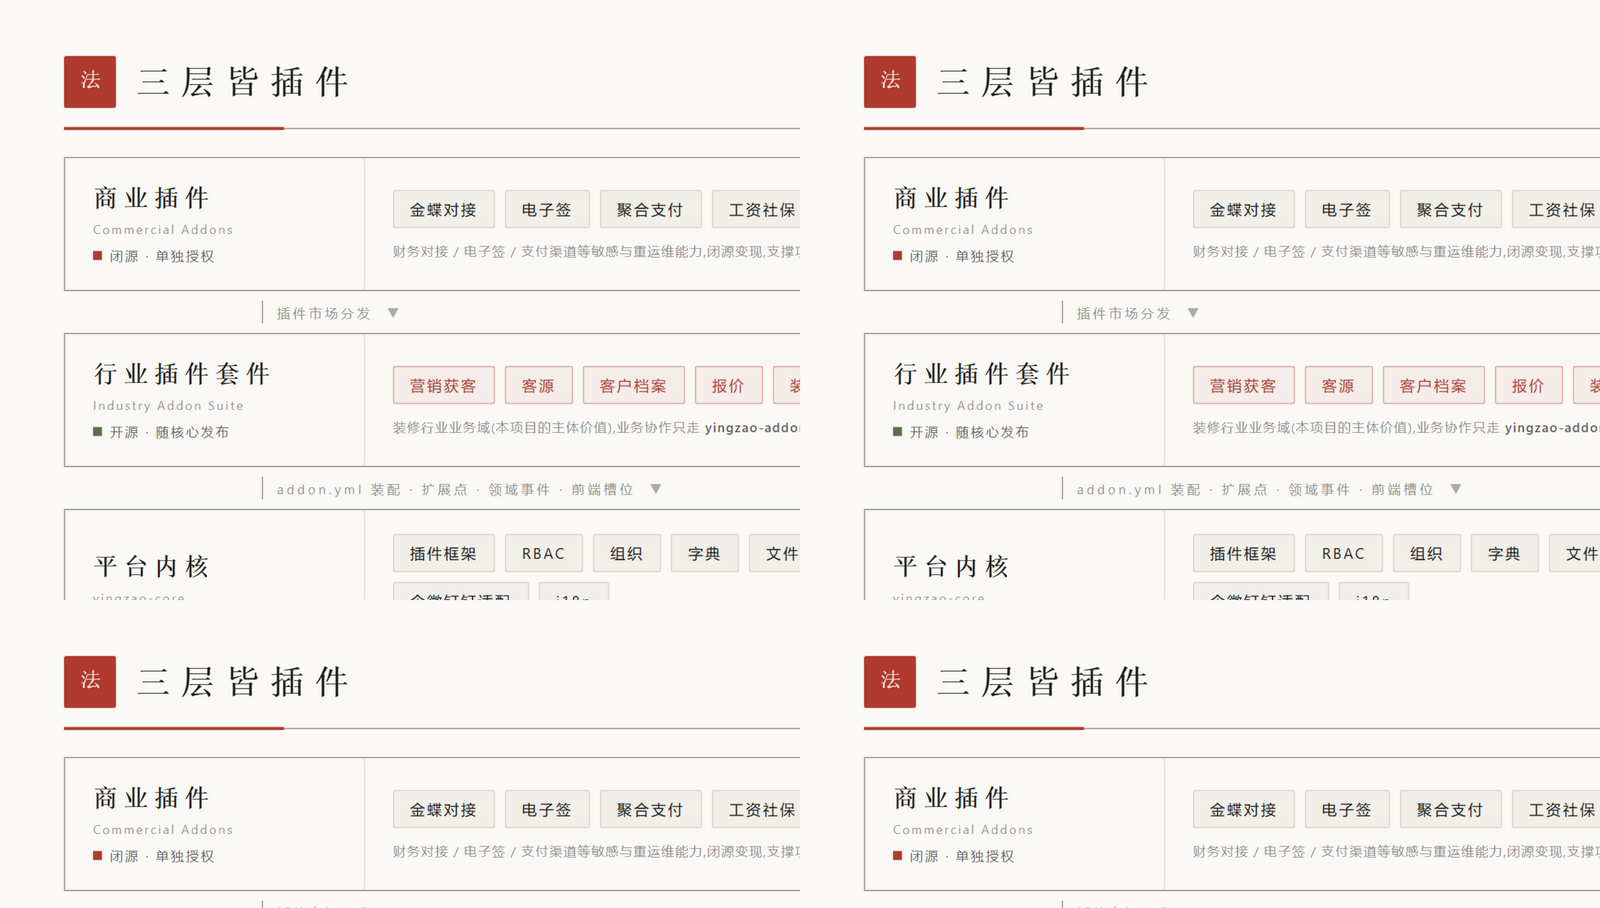
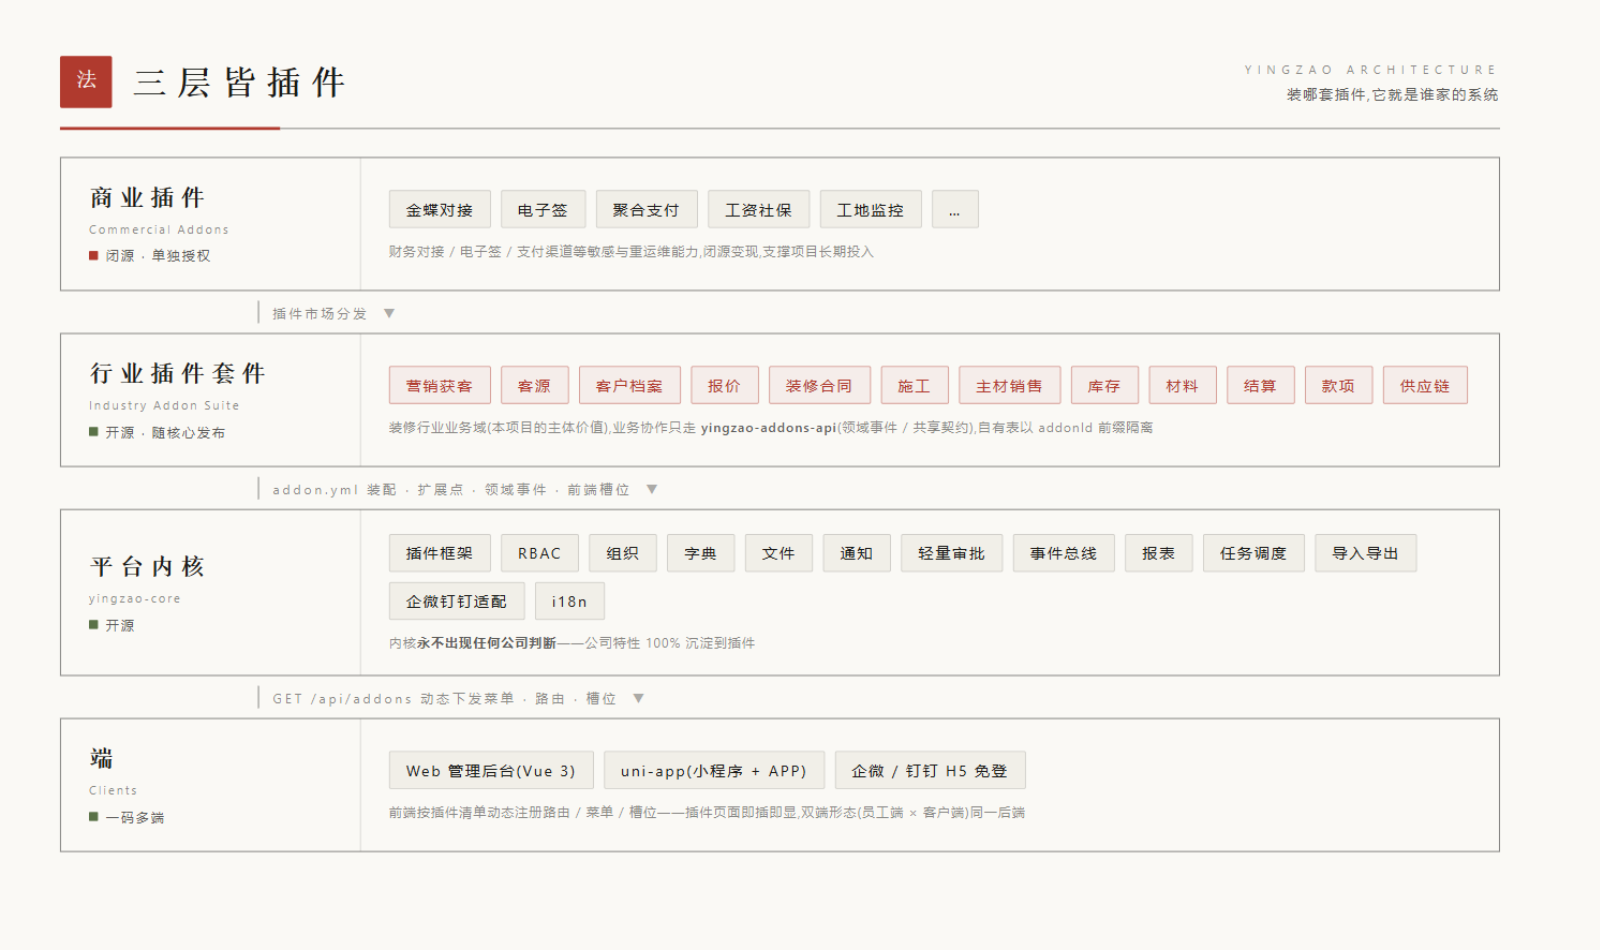
fix(docs): 架构图截图返工——clip截图管线产出2×2四副本+右缘裁切(用户实证图重复四遍/内容缺失)。规避姿势=视口精确匹配内容尺寸(setViewportSize 1600×950)+整视口截图不用clip;顺带architecture.html body固定宽1600被滚动条挤压致右缘裁切改1560留余量;重截产物单幅完整四层齐全;教训沉淀AGENTS.md:截图后必须Read核验产物不能只信保存成功

diff --git a/docs/design/architecture.html b/docs/design/architecture.html
@@ -21,8 +21,8 @@
     background: var(--paper);
     color: var(--ink);
     font-family: -apple-system, 'Segoe UI', 'Microsoft YaHei', 'PingFang SC', sans-serif;
-    padding: 56px 64px;
-    width: 1600px;
+    padding: 56px 60px;
+    width: 1560px;
   }
   .display { font-family: 'Songti SC', 'SimSun', 'Noto Serif SC', serif; }
   .eyebrow { font-size: 12px; letter-spacing: 6px; color: var(--ink-50); text-transform: uppercase; }

diff --git a/AGENTS.md b/AGENTS.md
@@ -100,6 +100,7 @@
 - ✅ **addon-sales V1 写码交付(第 24 次,写码模式第八个 addon:主材销售域,冒烟 673→864 步全绿终态见第 25 次首验;提交 3ad3e0d)**:①addons-api 新增两契约 `SalesOrderCreatedEvent`/`SalesOrderStatusChangedEvent`(action 键 fullRefund/countermand/finish/terminate)与 **`SalesApi` 只读契约**(collectedRatio 装修单名下销售款收款比例‰,消费方=施工闸)+ **PaymentApi 扩展 `submitRefund`**(实现在 addon-payment,整单退款+270012 幂等闸)+ **GoodsApi 扩展**(GoodsSummary 增 brandId/brandName 结算分组快照+listPackageItems 套餐成员只读,空列表=降级信号);②V1101 十表(counter/order 主单**四轴状态机**(主单轴沿老编号 0/2/3/4/5 缺1 保留+结算轴+款项轴+确认位)/item(package_id 套餐父子+五计数,xgnum 基线=num)/settlement(三段式 1单N品牌行,uk(org,sale,brand,type,rid) 兜底幂等)/refunds 族(审批驱动 3→0→1→2)/delivery 族(四级每级操作人+时间 8 列)/track/verify_code);③服务端算价拒前端金额(disPrice=selling×discount/1000→total=disPrice×num/1000 HALF_UP 长整);开单=DecorationApi 校验合同线非废单终止+套餐展开(子项不计总额老口径,空配置降级普通商品)+单号 XS+yyMMdd+4 位流水(uk 撞号重试不裸炸);改单全量替换守卫款项未付,已录未付自动 cancel+create 同步款项单;客户确认**三重校验服务端强制**(phone+code 同传,修老单传其一即绕过;验证码落表 10 分钟+通知中心转告,短信 V2);完结守卫全款确认+无未完配送;废单守卫四轴全初始放宽款项未付+联动 cancelBill;④**付款三事件回写**(collect→轴1/confirm→轴2+按品牌分组生成预结算行 insert ignore uk 幂等+结算轴 0→1/refunded→退货单已退款)+**库存四事件回写**(XG 扣 xgnum 原子守卫不足=超卖 300008 死信可见/删行回加/PU 加 punum/采购释放扣 punum 修老永不释放与 inventory 直改本域表;计数回写依赖总线 at-least-once 消费确认,exactly-once 待总线幂等表 V2);⑤结算三段式 vpost/post 条件 UPDATE+**vbalance/pbalance 双值人工修正服务端强校验非零且与金额同向**(修老拦截纯前端)+主单结算轴=行最小态重算+**驳回整单原子**(修老只删当前行兄弟残留);让利公式老三套量纲不自洽不迁 V1 balance=total;⑥退货=发起(300025 防重+**发起即原子预扣明细 num** 驳回回加)+内核轻量审批(AFTER_COMMIT+REQUIRES_NEW 军规8 SalesRefundApprovalListener:通过→主单轴 0/5→2/3,驳回→置无效+回加)+客户确认(三重+幂等)→**退货结算负值行**(守卫主单已预结 300019 显式报错修老静默;rid 幂等 300018)+**全退且金额一致→自动 submitRefund**(部分退/不符 300026 落人工);⑦配送=批次生成(守卫初始/完结+款项已付)+四级推进条件 UPDATE+留痕+**越级 300022 显式报错修老静默 continue**+完结回写 trnum;品牌跳级与分成克隆(PRD 默认砍)不迁;⑧**construction 销售款闸启用**(stacheck/fincheck 经 SalesApi,colletionRatio 聚合,免检位语义与装修款闸一致,新码 240025 双语);⑨错误码 300001-300031 同码同消息+i18n 中英双语;addon.yml 0.1.0(码段 300000/三菜单:销售单+结算工作台+配送履约/十组 dicts);⑩Web 三页(SalesOrders 列表四轴徽章+开单+详情抽屉全流转+SalesSettlements 结算工作台+Deliveries 配送看板),api/index.js 二十二函数,菜单动态注册零硬编码;⑪验证:npm build 全绿+dev 库 V1101 十表迁移成功(MySQL 5.6 日志实证)+冒烟最好一轮 **732/735**(3 fail=坏载荷死信环境性×1+**结算占位符错位 bug×2 已修复落码**:insert ignore 12 参对 11 位改 10?10 参)+**库中全链数据实证**(预结两品牌分组/双值修正/厂结/主单轴 3/整单驳回/退货审批/负值行/全退自动退款→PaymentRefundedEvent→退货单已退款);途中冒烟抓出并修复五处:①RefundApprovalListener 与 payment 同名 bean 冲突→更名 SalesRefundApprovalListener ②create() 把计数器 seq 当主单 id→改 insert 后 last_insert_id() ③撞号裸炸 110000→uk 撞号重试 3 次 ④syncBill 未录态误建款项单→updateItems 仅已录态重建/generateBill 无条件确保 ⑤占位符错位(见上);🔴下轮首验已由第 25 次兑现(见下条);自主决策(款项轴 V1 单全款线协议键 sales_full 定金线 V2/免付款通道不迁/让利公式不迁 balance=total/全局唯一流水修老公司级日流水/主单轴沿老编号/结算 4 完结旁路态不迁/验证码经通知转告短信 V2/计数回写幂等妥协声明/部分退货退款落人工/品牌跳级与分成克隆不迁)见报告 §五;
 - ✅ **addon-sales V1 首验全绿收官(第 25 次,第 24 次"下轮首验"兑现)**:①mvn clean package 复编译全绿+npm build 全绿+起服务补齐 smoke README 快退避五环境变量(BACKOFFSECONDS=1/BACKOFFCAP=5/MAXRETRIES=2/POLLINTERVAL=2000/POLLINITIALDELAY=3000);②**冒烟 864/864 全绿一次通过**(673→864;第 24 次 732/735 系 sales 段中途失败提前 return finish() 的截断计数,本夜完整跑通,死信链首次转绿);③增补修复三处(代码已随 3ad3e0d 入库):**退款落人工不阻塞客户确认**(submitRefundForFull 原对金额不符抛 300026 会回滚部分退货的确认事务,违 PRD"落人工"口径→改 refundManual 轨迹留痕,300026 码位保留)/**部分退货不置主单轴**(onApprovalFinished 原一律置 2/3 打死完结,改 drained 判定=主项 SUM(num)=0 才置轴,回归老系统"退货不改主单轴"正统语义 rules/sales.md §5,冒烟互斥断言同步修正)/**冒烟健壮性**(死信固定 sleep 25s 改轮询至多 75s,修默认 60s 退避基数下的必假死+对账 SQL pymysql 参数化后字面 % 转义 %%);④第 24 次 §三"宿主机进程异常"根因实证=**平行无人值守会话遗留后台任务树互杀**(模式:轮询 8080→taskkill 当前持有者→自起 jar→跑冒烟,排队任务陆续触发;PowerShell 哨兵按会话 id 匹配命令行两轮清杀 20+ 排队 bash 后环境清净,冒烟一次全绿);**运行纪律两条**:夜间任务起服务前必查 8080 占用与遗留 java/后台任务(本机可能存在平行会话)/冒烟失败先查服务存活与事件表状态,区分产品缺陷·环境互扰·时序脆弱三类再动手;详见 docs/reports/2026-10-13-第25次运行总结.md;
 - ✅ **addon-balance V1 写码交付(第 26 次,写码模式第九个 addon:结算汇聚域,冒烟 864→1001 全绿一次通过)**:①addons-api 四契约 `SettlementItemReadyEvent`(上游携金额快照,退货行负值生成侧完成)/`SettlementItemWithdrawnEvent`(上游撤回,未锁定桶摘行重算,锁定后死信)/`SettlementItemReleasedEvent`(balance→上游解绑退回,上游自回置对账状态,废直写三字段)/`SettlementSettledEvent`;②addon-sales 回补首个上游接入:结算行 post(结算)发布 Ready(快照=行终值,vpost 不发金额未定),替代老 SALES_AUTO_BALANCE 跨模块服务直调;③V1301 八表(统一结算单+快照行 **uk(source 三元组) 全局只挂一单修老外销防重缺失**/account uk(org,belonger,type) 净头寸不变式 surplus=refer−real/account_detail append-only/池/扣款单/子流水仅留痕修老双计/轨迹全动作覆盖)MySQL 5.6 兼容;④吸附聚桶键=org+settlement_type(sourceAddon:sourceType 复合协议键)+brand+supplier+grade,**select for update 串行化建桶修老并发双桶**;同键同金额重放幂等/同键异金额=上游修正(仅初始态);⑤四态机 0→1→2(可选审)→3→4,终态写拒全断言;⑥账户双腿收编 f384101d3 终态:台账腿原子消耗结算单余量+出纳现金腿原子扣减+**归属账户懒开户同步(insert ignore 兜并发,允许透支=预付)**+守卫族(类型/归属一致/停用/金额恒正)+补出纳入金 cashIn(老收款单语义);⑦扣款池三守卫闭环(池原子 SQL/unbind·deduct 状态守卫/金额恒正)+bind-unbind 精确逆操作对称+绑定时机统一为结算后+返款仅字典预留;⑧完结唯一定义=显式端点(已结算+surplus 清零+已付款)单向无逆向+付款标批量全或无;⑨错误码 320001-320025 双语+addon.yml 0.1.0(三菜单+八组 dicts 含修老字典缺 0 键);⑩Web 三页 Settlements(四态列表+详情抽屉明细快照/双腿操作/流水 timeline)+Accounts(建户/停启/入金/流水)+Cutpays(池+扣款单闭环),api/index.js 三十一函数;⑪验证:mvn+npm 双绿+V1301 迁移成功+冒烟 **864→1001/1001 全绿一次通过**(balance 段 137 步含 sales 真链端到端 post 事件吸附/双死信/不变式 pymysql 直查);⑫途中冒烟抓出并修复:**page 分页查询 List 未 toArray 八处**(queryForList(sql,List) 把 List 当 varargs 单元素绑定→param2 missing 列表端点全 500——balance 四处当场修+**addon-sales 四处潜伏**(orders/refunds/deliveries/settlements 列表,第 24 次冒烟只打 detail 未覆盖,Web 页一开即 500))+冒烟自身三处(漏财务确认步骤/固定 supplier 复跑污染→归属人时间戳化可重复执行/URL %3A 撞 % 格式化);自主决策(绑定时机统一结算后/折扣仅初始态/pending 不迁/返款预留/出纳入金补齐/完结显式端点/供应商身份字符串 grade 上游携带/聚桶含 sourceType/sales vpost 不发/修正语义/停用池闸/吸附零 REST 旁路)见报告 §三;
+- 🔴**第 32 次返工(架构图截图修复)**:IAB 浏览器 screenshot({clip}) 在该管线上输出异常(clip 1600×908 实际产出 2×2 平铺四副本+右缘裁切),用户实证"图重复四遍/内容缺失";**规避姿势=视口精确匹配内容尺寸(setViewportSize 1600×950)+整视口截图,不用 clip**;顺带 HTML body 固定宽 1600 被滚动条挤压致右缘裁切,改 1560 留余量;截图后必须 Read 核验产物,不能只信"保存成功";
 - ✅ **README 架构图图片化(第 32 次)**:「架构:三层皆插件」ASCII 图改图片展示(docs/screenshots/architecture.png,1600×908)——图源 docs/design/architecture.html 入仓可复改(方向三视觉:朱印方章+宋体标题+四层版框卡片+模块 chips+层间连接标注:插件市场分发/addon.yml 装配·扩展点·领域事件·前端槽位//api/addons 动态下发);文字版折叠 details 保留(无图环境/可搜索);静态服务+浏览器渲染截图管线;
 - ✅ **菜单业务链排序+全局去白统一纸色(第 31 次,用户三轮反馈:侧栏白色/菜单顺序/元素白底)**:①Layout.vue `MENU_ORDER` 固定业务链序=系统管理(角色权限,admin)→流程协作(审批中心)→基础数据→营销获客(漏斗顶端)→客户档案→客源→报价→装修单→施工→销售→库存→款项→结算;未登记插件自动追加尾部前向兼容,非 admin 滤系统组;②侧栏 `#FFFFFF`→`var(--yz-paper)` 融入纸底仅右缘细墨线;③yingzao.css 全局去白:`--el-fill-color-blank/--el-bg-color/--el-bg-color-overlay`→#FAF9F5,输入框/下拉/默认按钮/弹层/抽屉/分页全部纸色化,grep 零 #fff 字面量;④app 端 .card/.btn-mini 同口径纸色靠墨线成形;⑤screenshots/web 十张重截;web build+app build:h5 全绿;自主决策(获客排客户前/报价施工并入订单段/组织架构预留顺序位)见报告 §三;
 - ✅ **管理后台倒 L 布局 + 业务页脱离布局根因修复(第 30 次,用户反馈"进入具体页面无法访问其他页面")**:①🔴根因=registerAddonRoutes 用 addRoute('/',…) 按父名挂载而 '/' 路由无 name,vue-router 解析不到父路由把业务页注册成顶层路由——顶部导航从未在业务页出现(功能 bug 非视觉偏好);修复='/' 显式 name:'layout'+addRoute('layout',…) 挂为布局子路由,导航全页常驻;②Layout.vue 重写为**倒 L**(用户拍板):左侧 220px 分组菜单(brand 朱印方章+宋体移入侧栏/组名=插件名淡墨小字/激活项左缘朱印条+纸深底/审批中心置顶+角色权限归系统管理组仅 admin)+顶栏(宋体页题+通知铃+用户+退出);菜单 24 项竖排分组,横排溢出一并消解;③docs/screenshots/web 十一张全部重截(倒 L 版);web npm build 全绿;
@@ -108,7 +109,7 @@
 - ✅ **addon-market V1 写码交付(第 27 次,写码模式第十个 addon:营销获客域,行业插件套件 V1 收官,冒烟 1001→1087 全绿)**:①addons-api 两契约 `InboundAcceptedEvent`(载荷携 phoneHmac 明文不进 outbox)/`MarketApi`(beginAccept 幂等闸/acceptResult 回写/revealPhone 解密留痕,实现在 addon-market);②addon-market V1001 十三表:campaign(0草稿→2发布→3停用→5归档,老死态不迁,发布后编辑拒)/channel(**带恢复接口修老停用即终局**)/source(渠道码 16hex 服务端生成+uk DB 兜底+URL+UTM 三件套)/inbound(**uk(org,idempotent_key) 幂等键 DB 兜底**+归因三键冗余+手机 cipher/hash 双轨+case_name 快照)/inbound_item(EAV)/attribution(insert-only 逐级落行 0提交/1建客源/2建机会)/track(submit/retry/ignore/acceptFail 修老 retry 无日志)/phone_access_log(解密留痕)/案例库四表(城市人物 uk 查重+使用中删守卫/案例上下架+删除级联图片+效果图 cycle 锁 0);③登记三重校验(源存在启用归属一致→活动已发布→渠道启用)+匿名进线显式 allowAnonymous(禁掺 UUID)+并发同键仅一条(幂等查询+DB uk 双兜底);④**承接事件化**(PRD 红线兑现):登记发 InboundAcceptedEvent→addon-customer 消费(0.3.0 回补 MarketInboundConsumer+InboundAcceptService)→单事务「认领 0→3→解密留痕→建客源(chance 档 auto 派发机会)→回写 3→1+归因」→业务失败整体回滚+置 2 留因(人工 retry/ignore,无孤儿数据);⑤漏斗按活动/渠道两级四级计数(有效进线=status1 口径);⑥报名=一种进线入口(复用幂等/密文/承接,废老独立明文 ecustomer);⑦错误码 280001-280026 双语+addon.yml 0.1.0(四菜单/十组 dicts);⑧Web 四页(Campaigns 三 tab 投放物+**qrcode 二维码弹窗**/Inbounds 工作台+详情抽屉/Funnels 漏斗条/Showcase 案例库四 tab),api/index.js 四十四函数;⑨验证:mvn+npm 双绿+V1001 迁移成功(MySQL 5.6)+冒烟 **1001→1087/1087 全绿**(market 段 86 步:状态机守卫族/UTM 拼接/承接端到端(客源+机会实证)/幂等命中回全量/两并发同键/匿名链失败留痕-重试-忽略全闭环/漏斗计数/案例库守卫族/密文+留痕 pymysql 直查/事件重放幂等/级联删除/总线对账零滞留);途中冒烟抓出并修复两处产品 bug:**建案例 insert 占位符错位**(type 列被字面 0 顶掉 12>11 全 500,第 24 次同款坑)+caseDetail 复用守卫查询缺列;冒烟脚本自身四处(重名断言先于首建/int(stamp) 带字母/280010 幽灵源构造错位/api_err 缺 body×4);自主决策(承接失败即时置 2 不走总线重试/匿名进线承接必失败人工兜底/幂等键服务端唯一口径不暴露 clientKey/归因逐级落行替代单条推导/承接中态 3 显式建模/case_name 快照/拼音自动生成砍掉/C 端露 10 条不迁/报名验证码不迁走登录态端点/预算入厘)见报告 §三;
 - ⏳ 待用户(2026-10-12 拍板:视觉验收默认通过/app 对齐推进/凭证后续补齐不阻塞):真机视觉验收(appid)/ 企微钉钉凭证 / Docker 环境;
 - ⏳ 可自动推进(**写码模式路线图 ①-⑨ 全部完成,行业插件套件 V1 收官**):~~①addon-basedata V1~~(✅ 第 18 次)~~②addon-payment V1~~(✅ 第 19 次,含内核事件总线三件套)~~③addon-decoration V1~~(✅ 第 20 次,事件回程车首战)~~④addon-quotation V1~~(✅ 第 21 次)~~⑤addon-construction V1~~(✅ 第 22 次)~~⑥addon-inventory V1~~(✅ 第 23 次)~~⑦addon-sales V1~~(✅ 第 24 次交付+第 25 次首验 864/864)~~⑧addon-balance V1~~(✅ 第 26 次,冒烟 1001/1001)~~⑨addon-market V1~~(✅ 第 27 次,冒烟 1087/1087);**下一阶段候选**:跨域回归+九域规则交叉核对第二遍(十一插件 V1 全交付的自然节点)/ 事件总线 Spring 监听渐进迁移(customer LeadConverted 链首选)/ RBAC v2 按 §9 实施清单写码(报名/官网开放匿名端点依赖此项)/ addon-supplier 厂商主数据 / addon-member 会员营销(积分商城)/ customerprofile 楼盘·房屋与 /api/events Web 管理页补齐 / basedata Excel 导入器 V1.1 / decoration 决算六项检查配置表 V2 / app 端样式对齐方向三;
-- 📋 每晚自动任务收尾:`docs/reports/<日期>-总结.md`(同日多运行按次序号区分),最新=2026-10-12-第32次运行总结.md。
+- 📋 每晚自动任务收尾:`docs/reports/<日期>-总结.md`(同日多运行按次序号区分),最新=2026-10-12-第32次运行总结.md(架构图返工修复)。
 
 ## Git 纪律
 
